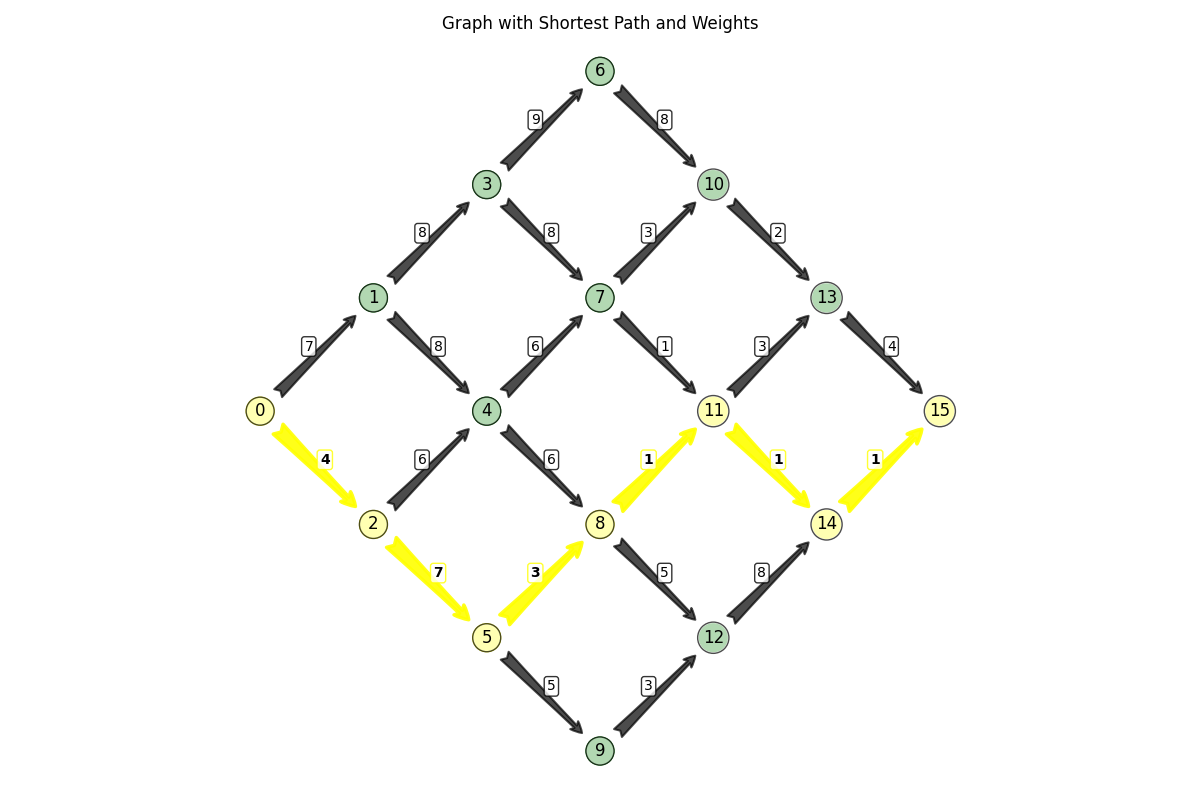
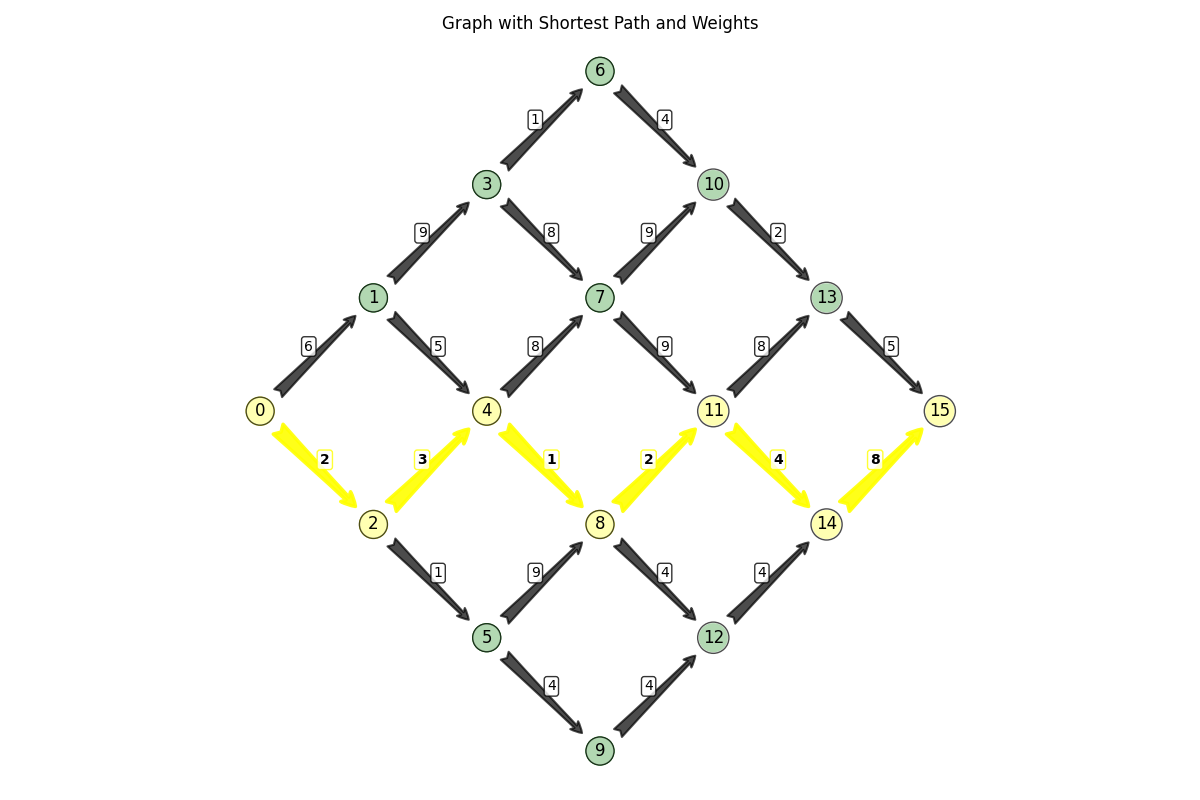
adding exploitation visualization

Changed region(s): [[0.3083, 0.5625, 0.4933, 0.8125], [0.37, 0.5, 0.4625, 0.5938]]

diff --git a/docs/examples/shortest-path-itt.md b/docs/examples/shortest-path-itt.md
@@ -551,7 +551,7 @@ edge_to_index = {ordered_edges[k]: k for k in range(len(ordered_edges))}
 means = np.array([np.log(weights[edge]) - (ini_sigma) ** 2 / 2 for edge in edges])
 sigma = np.ones(means.shape[0]) * (ini_sigma)
 true_dist = Normal(mu=means, sigma=sigma)
-
+path_selection_count = {}
 def sample_true_distribution(
         edges_to_sample: list,
         rng,
@@ -580,12 +580,16 @@ def thompson_step(estimate: Normal, rng) -> Normal:
     weights_ = {ordered_edges[k]: np.exp(sample[k]) for k in range(len(edges))}
     _, predecesors = dijkstra_with_paths(graph, start,weights_ )
     path, edges_to_sample = get_shortest_path(predecesors, 15)
-    print(path)
+    path_selection_count.setdefault(str(path),0)
+    path_selection_count[str(path)] += 1
     edges_sample = sample_true_distribution(edges_to_sample, rng=rng)
     x, n = bayesian_update_stats(edges_to_sample, edges_sample)
 
     return normal_known_variance(x_total=x, n=n, var=sigma_tilda, prior=estimate)
 ```
+
+### Ts simulation
+
 ```python
 mu = np.ones(len(edges)) * -0.5
 sigma = np.ones(len(edges))
@@ -599,3 +603,48 @@ for _ in range(total_samples):
 
 
 ```
+
+We can see that the edges that correspond to the shortest path  were actually exploited the most!
+
+```python
+
+fig, axes = plt.subplots(ncols=2, figsize=(16, 6))  # Wider figure
+fig.suptitle("Thompson Sampling using conjugate-models")
+edges_means = [(ordered_edges[k], round(float(means[k]),2)) for k in range(len(ordered_edges))]
+ax = axes[0]
+estimate.set_max_value(2).plot_pdf(label=edges_means, ax=ax)
+# Place legend below the plot as a horizontal array
+ax.legend(title="True Mean (edge, mean)",
+          bbox_to_anchor=(0.5, -0.15),  # Position below the plot
+          loc='upper center',           # Anchor at the top center of the bbox
+          ncol=3,                       # Arrange in 4 columns (adjust as needed)
+          frameon=True,                 # Add a frame
+          borderaxespad=0.)             # No padding between axes and legend
+ax.set(
+    xlabel="Mean log distance",
+    title="Posterior Distribution by edge",
+)
+
+ax = axes[1]
+sampled_paths = list(path_selection_count.keys())
+n_times_sampled = [path_selection_count[key] / total_samples for key in sampled_paths]
+ax.scatter(sampled_paths, n_times_sampled)
+ax.set(
+    xlabel="True Mean path use",
+    ylabel="% of times sampled",
+    ylim=(0, None),
+    title="Exploitation of Shortest Path",
+)
+# Format yaxis as percentage
+ax.yaxis.set_major_formatter(plt.FuncFormatter(lambda x, _: f"{x:.0%}"))
+
+# Rotate x-axis labels in the second subplot
+plt.setp(axes[1].get_xticklabels(), rotation=45, ha='right')
+
+# Adjust layout with additional bottom space for the legend
+plt.subplots_adjust(bottom=0.2)  # Increase bottom margin to accommodate legend
+plt.tight_layout()
+plt.show()
+```
+
+![path exploitation](./../images/path_exploitation.png)
